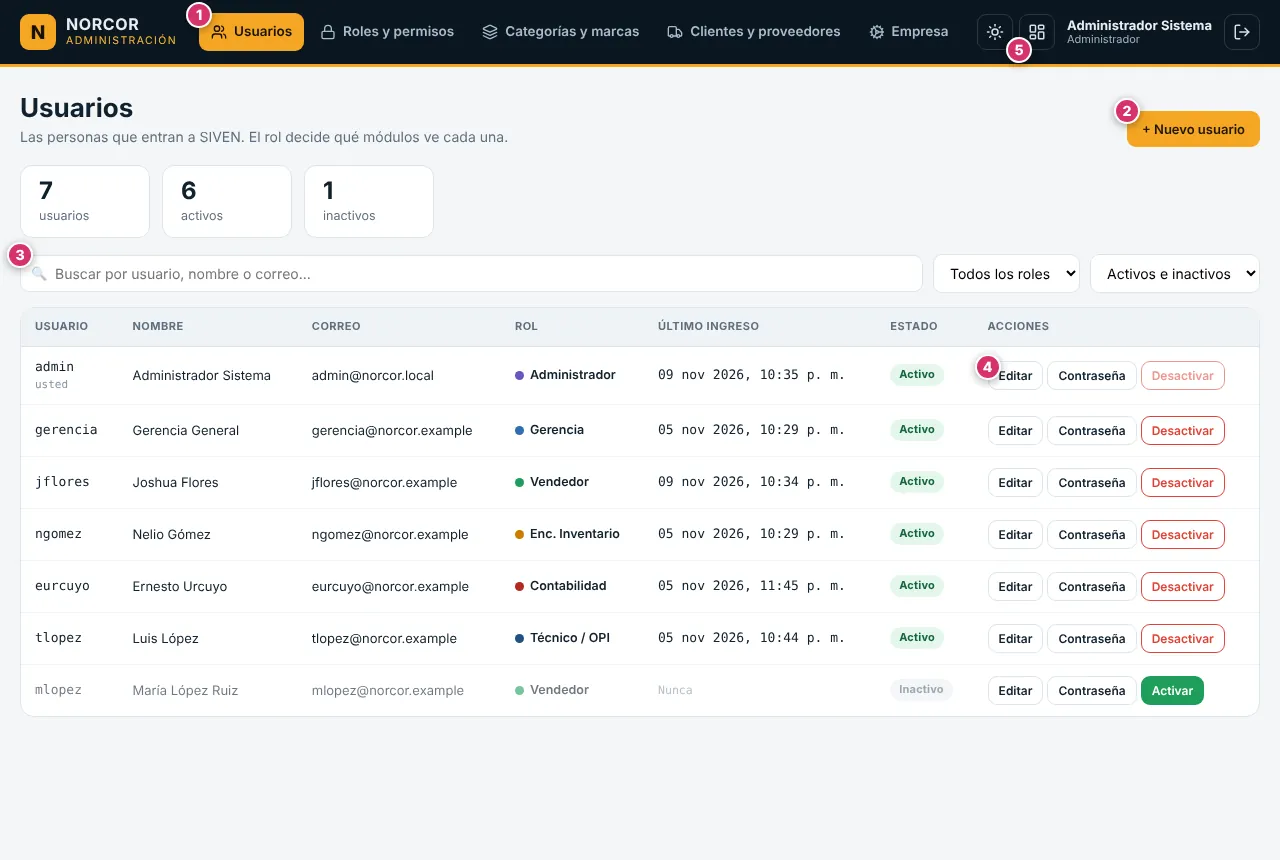
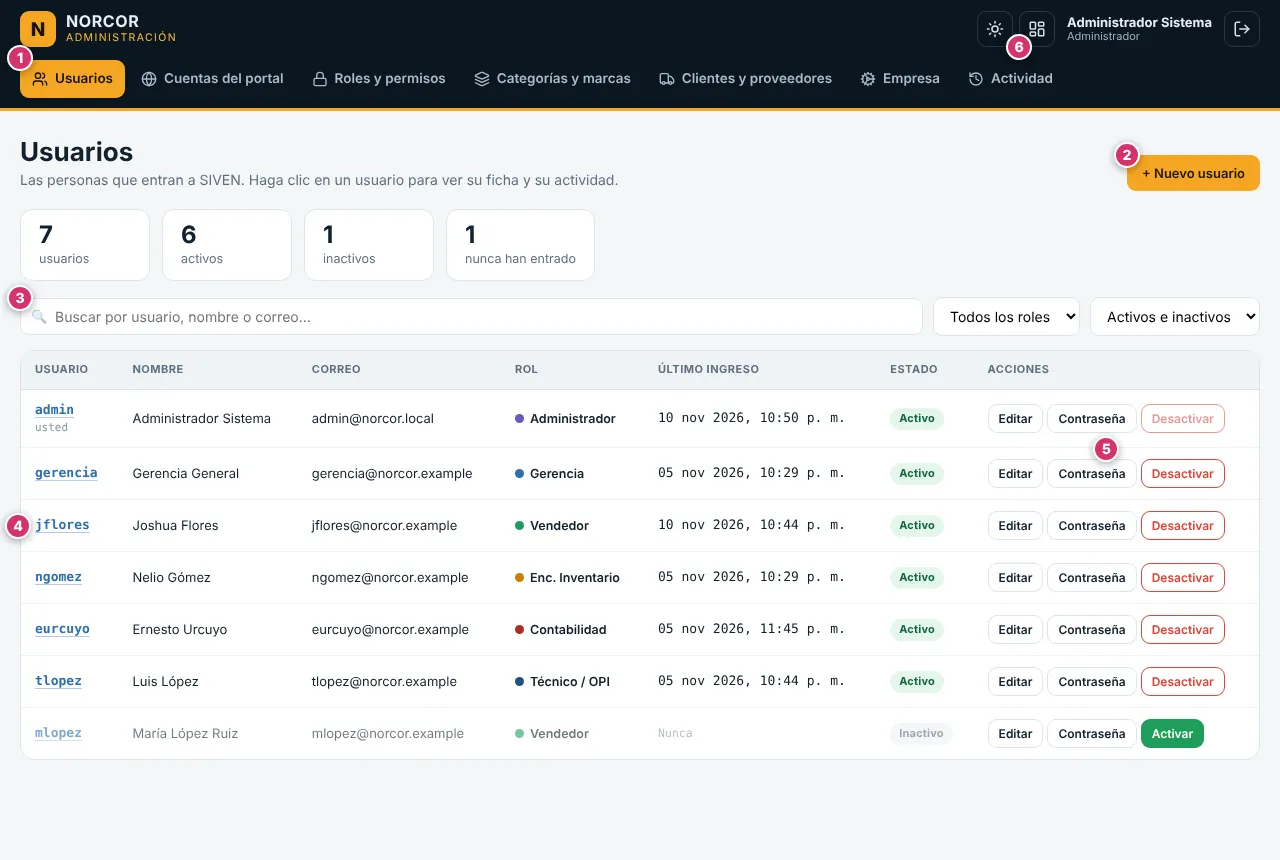
Manual: panel de administración completo (mejoras n.° 69 a 72)
- Capítulo «Panel de administración»: ficha del usuario, editar usuario y
  correo, cerrar sesiones, Cuentas del portal (recuperar acceso, cambiar
  correo, vincular), RUC de la empresa y Actividad. Capturas nuevas y
  actualizadas.
- Portal, Preguntas frecuentes, Acceso, Pantalla, Roles, Ventas y Glosario
  al día; el portal ya no menciona el enlace al sistema interno (parche 0037).

diff --git a/frontend/src/features/docs/imagenes.ts b/frontend/src/features/docs/imagenes.ts
@@ -5,12 +5,17 @@ export const IMAGENES: Record<string, [number, number]> = {
   'acceso-login': [1280, 800],
   'acceso-recuperar-1': [640, 800],
   'acceso-recuperar-2': [640, 800],
+  'admin-actividad': [1280, 860],
   'admin-catalogos': [1280, 860],
   'admin-celular': [390, 664],
   'admin-empresa': [1280, 860],
+  'admin-ficha': [892, 668],
+  'admin-portal': [1280, 860],
+  'admin-portal-nueva': [652, 653],
   'admin-restablecer': [652, 469],
   'admin-roles': [1280, 860],
   'admin-socios': [1280, 860],
+  'admin-usuario-editar': [652, 597],
   'admin-usuario-nuevo': [652, 687],
   'admin-usuarios': [1280, 860],
   'auditoria': [1280, 800],
@@ -60,7 +65,7 @@ export const IMAGENES: Record<string, [number, number]> = {
   'pantalla-tabla': [1280, 800],
   'pantalla-tema': [635, 199],
   'pantalla-vista-previa': [900, 470],
-  'portal-cotizacion': [1280, 1113],
+  'portal-cotizacion': [1280, 1140],
   'portal-cotizaciones': [1280, 800],
   'portal-ingresar': [1280, 800],
   'portal-perfil': [1280, 1496],
@@ -94,6 +99,6 @@ export const IMAGENES: Record<string, [number, number]> = {
   'sitio-producto': [1280, 800],
   'sitio-vista-rapida': [1280, 800],
   'ventas-anular': [1280, 800],
-  'ventas-factura': [1280, 800],
+  'ventas-factura': [1280, 860],
   'ventas-lista': [1280, 800],
 };

diff --git a/frontend/src/features/docs/manual/22-administracion.md b/frontend/src/features/docs/manual/22-administracion.md
@@ -3,18 +3,20 @@ id: administracion
 titulo: Panel de administración
 grupo: Control
 modulo:
-resumen: El área aparte, solo para el administrador, donde se crean usuarios y se les asigna rol, se restablecen contraseñas, se mantienen las categorías y marcas, se activan o desactivan clientes y proveedores, y se configuran los datos de la empresa.
+resumen: El área aparte, solo para el administrador, donde se maneja todo lo de cada usuario (usuario, correo, rol, contraseña, sesiones y estado), las cuentas del portal de clientes, las categorías y marcas, la activación de clientes y proveedores, los datos de la empresa y la actividad de accesos y cambios.
 ---
 
 ## Para qué sirve
 
 El **Panel de administración** es un área **aparte de SIVEN**, igual que el sitio público y el portal de clientes: tiene su propia barra y su propio menú, y no cambia nada de lo que ven los demás usuarios. Ahí se hace el trabajo de configuración que antes había que pedir al servidor:
 
-- crear **usuarios**, asignarles su **rol**, restablecer su **contraseña** y activarlos o desactivarlos;
+- crear **usuarios** y tener el control completo de cada uno: su **usuario**, su **correo**, sus nombres, su **rol**, su **contraseña**, sus **sesiones abiertas** y si está **activo**;
+- atender las **cuentas del portal** de los clientes: recuperar su acceso, cambiar su correo o crear la cuenta de un cliente que ya existe;
 - consultar qué puede hacer cada **rol**;
 - crear y mantener las **categorías** y **marcas** de los productos;
 - **activar o desactivar** clientes y proveedores;
-- llenar los **datos de la empresa** que ve el cliente en el sitio y los parámetros de facturación.
+- llenar los **datos de la empresa** que ve el cliente en el sitio y en los documentos, y los parámetros de facturación;
+- revisar la **actividad**: quién entró, quién intentó entrar y qué se cambió.
 
 > **Importante:** Solo el **administrador** puede entrar. Si otra persona abre la dirección del panel, ve un aviso de que no tiene acceso y un botón para volver a SIVEN. Todo lo que se hace en el panel queda en la [Auditoría](?cap=auditoria).
 
@@ -28,13 +30,14 @@ El **Panel de administración** es un área **aparte de SIVEN**, igual que el si
 
 ![Panel de administración: lista de usuarios.](/manual/admin-usuarios.webp)
 
-1. **Secciones del panel**: Usuarios, Roles y permisos, Categorías y marcas, Clientes y proveedores, y Empresa.
+1. **Secciones del panel**: Usuarios, Cuentas del portal, Roles y permisos, Categorías y marcas, Clientes y proveedores, Empresa y Actividad.
 2. **+ Nuevo usuario**: crea un usuario.
 3. **Buscar y filtrar**: por usuario, nombre o correo, por **rol** y por **estado** (activos o inactivos).
-4. **Acciones de cada usuario**: **Editar**, **Contraseña** (restablecerla) y **Desactivar** o **Activar**.
-5. **Ir a SIVEN**: vuelve al sistema.
+4. **Usuario**: haga clic en él para abrir su **ficha**, con todos sus datos y su actividad.
+5. **Acciones de cada usuario**: **Editar**, **Contraseña** (restablecerla) y **Desactivar** o **Activar**.
+6. **Ir a SIVEN**: vuelve al sistema.
 
-Arriba se ve cuántos usuarios hay, cuántos están activos y cuántos inactivos. La tabla muestra el usuario, el nombre, el correo, el rol (con su color), la fecha del **último ingreso** y el estado. Su propia cuenta dice *usted*.
+Arriba se ve cuántos usuarios hay, cuántos están activos, cuántos inactivos y cuántos **nunca han entrado** (por ejemplo, alguien a quien no se le entregó su contraseña). La tabla muestra el usuario, el nombre, el correo, el rol (con su color), la fecha del **último ingreso** y el estado. Su propia cuenta dice *usted*.
 
 ### Crear un usuario
 
@@ -42,7 +45,7 @@ Arriba se ve cuántos usuarios hay, cuántos están activos y cuántos inactivos
 
 1. Haga clic en **+ Nuevo usuario**.
 2. Escriba los **Nombres** y **Apellidos**.
-3. Escriba el **Usuario** con el que va a iniciar sesión, por ejemplo `mlopez`: minúsculas, números, punto o guion. **No se puede cambiar después.**
+3. Escriba el **Usuario** con el que va a iniciar sesión, por ejemplo `mlopez`: minúsculas, números, punto o guion.
 4. Escriba el **Correo**. Es importante que sea correcto: ahí le llega el código si olvida su contraseña.
 5. Elija el **Rol**, que decide qué módulos verá (vea [Roles y permisos](?cap=roles)).
 6. Revise la **Contraseña temporal**: el sistema ya generó una segura. Puede pedir **Otra**, escribir una propia o **Copiar** la que está. Las marcas verdes indican que cumple los requisitos.
@@ -50,11 +53,35 @@ Arriba se ve cuántos usuarios hay, cuántos están activos y cuántos inactivos
 
 Entréguele a la persona su usuario y la contraseña temporal **en privado**. Después ella puede poner una propia con **¿Olvidó su contraseña?** en el inicio de sesión.
 
-> **Nota:** No se puede repetir un usuario ni un correo: si ya existen, el sistema lo avisa.
+> **Nota:** No se puede repetir un usuario ni un correo: si ya los tiene otra persona, el sistema lo dice debajo del campo.
 
-### Editar un usuario
+### La ficha del usuario
 
-Con **Editar** se corrigen los nombres, el correo y el **rol**. El usuario no se cambia. Usted **no puede cambiar su propio rol**, para que el sistema nunca se quede sin administrador por error. El nuevo rol se ve en el menú de la persona la próxima vez que inicie sesión.
+![Ficha de un usuario: sus datos, sus acciones y lo que ha hecho en el sistema.](/manual/admin-ficha.webp)
+
+Haga clic en el **usuario** (la palabra subrayada de la primera columna) para abrir su ficha. Arriba están su usuario, su correo, su rol, su estado, cuándo se creó y su último ingreso. Debajo hay dos pestañas:
+
+- **Lo que ha hecho**: sus últimas acciones en el sistema (inicios de sesión, ventas, cambios…).
+- **Cambios a su cuenta**: quién y cuándo le cambió el usuario, el correo, el rol o la contraseña, le cerró las sesiones o lo activó o desactivó.
+
+Se muestran los 15 registros más recientes; el historial completo está en [Actividad](?cap=administracion#actividad) y en la [Auditoría](?cap=auditoria). Desde la ficha también puede **Editar**, cambiar la **Contraseña**, **Cerrar sesiones** y **Desactivar** o **Activar** al usuario.
+
+### Editar un usuario: usuario, correo, nombres y rol
+
+![Editar un usuario: se cambian el usuario y el correo.](/manual/admin-usuario-editar.webp)
+
+Con **Editar** se cambia **todo** lo de la cuenta:
+
+- el **Usuario** con el que inicia sesión (por ejemplo, si se escribió mal o la persona prefiere otro);
+- el **Correo** al que le llega el código para recuperar la contraseña;
+- los **Nombres** y **Apellidos**;
+- el **Rol**.
+
+Cuando cambia el usuario o el correo, el formulario le recuerda lo que va a pasar: desde que guarde, la persona entra con el **usuario nuevo** (o con su correo), y el código de recuperación llega al **correo nuevo**. Su historial (ventas, movimientos, auditoría) se conserva con el usuario nuevo. Avísele el cambio, porque su usuario anterior ya no funciona.
+
+El nuevo rol se ve en el menú de la persona la próxima vez que inicie sesión.
+
+> **Importante:** También puede cambiar **su propio** usuario, correo y nombres: su sesión sigue abierta y la página se recarga con sus datos nuevos. Lo que no puede cambiar es **su propio rol**, para que el sistema nunca se quede sin administrador por error.
 
 ### Restablecer una contraseña
 
@@ -62,11 +89,17 @@ Con **Editar** se corrigen los nombres, el correo y el **rol**. El usuario no se
 
 Úselo cuando alguien olvidó su contraseña y no puede recuperarla por correo:
 
-1. Haga clic en **Contraseña** en la fila del usuario.
+1. Haga clic en **Contraseña** en la fila del usuario (o en su ficha).
 2. Revise o cambie la contraseña temporal y cópiela.
 3. Haga clic en **Restablecer contraseña**.
 
 Se cierran las sesiones que la persona tuviera abiertas. Entréguele la contraseña temporal en privado.
+
+### Cerrar las sesiones de un usuario
+
+En la ficha del usuario, **Cerrar sesiones** cierra todas las sesiones que tenga abiertas, en cualquier computadora o celular. Su contraseña **no cambia**: puede volver a entrar cuando quiera.
+
+Úselo si la persona perdió su celular o dejó la sesión abierta en un equipo compartido. No se puede usar con su propia cuenta: para salir, use **Cerrar sesión** :ic-log-out:.
 
 ### Desactivar o activar un usuario
 
@@ -76,6 +109,55 @@ Cuando una persona deja la empresa, **desactive** su usuario en lugar de borrarl
 - su historial (ventas, movimientos, auditoría) se conserva con su nombre.
 
 Para que vuelva a entrar, haga clic en **Activar**. Usted no puede desactivar su propia cuenta.
+
+## Cuentas del portal
+
+![Cuentas del portal de clientes.](/manual/admin-portal.webp)
+
+Aquí están las cuentas con las que los clientes entran al [portal](?cap=portal). El portal le dice al cliente que, si olvidó su contraseña, escriba a NORCOR; y si su RUC ya estaba registrado, que se comunique para **vincular** su cuenta. Las dos cosas se resuelven en esta sección.
+
+1. **+ Nueva cuenta**: crea la cuenta del portal para un cliente que **ya existe** en SIVEN.
+2. **Buscar y filtrar**: por correo, contacto, cliente o RUC; por estado (activas o inactivas) o las que **nunca han entrado**.
+3. **Correo de acceso**: haga clic en él para abrir la ficha de la cuenta, con su historial (inicios de sesión, cambios de correo o de contraseña).
+4. **Acciones**: **Editar**, **Contraseña** y **Desactivar** o **Activar**.
+
+La tabla muestra el cliente con su RUC, el correo con el que entra, la persona de contacto, cuántas **solicitudes** ha enviado, su último ingreso y su estado.
+
+### Recuperar el acceso de un cliente
+
+Cuando un cliente escribe porque olvidó su contraseña:
+
+1. Confirme que quien escribe es el contacto del cliente (por ejemplo, llamando al teléfono de su ficha).
+2. Busque la cuenta y haga clic en **Contraseña**.
+3. Copie la contraseña temporal y haga clic en **Restablecer contraseña**.
+4. Entréguesela al cliente por un medio privado (WhatsApp o llamada). Después él puede cambiarla en **Mi perfil** del portal.
+
+Se cierran las sesiones que el cliente tuviera abiertas.
+
+### Cambiar el correo de acceso
+
+Con **Editar** se cambian el **Correo de acceso**, la **Persona de contacto** y el **Teléfono**. Desde que guarde, el cliente entra al portal con el correo nuevo. Si la ficha del cliente tenía el mismo correo, también se actualiza.
+
+### Crear la cuenta de un cliente que ya existe (vincular)
+
+![Nueva cuenta del portal para un cliente que ya existe.](/manual/admin-portal-nueva.webp)
+
+Si un cliente no pudo registrarse porque su RUC ya estaba en NORCOR, cree aquí su cuenta:
+
+1. Haga clic en **+ Nueva cuenta**.
+2. Busque el **Cliente** por nombre, RUC o contacto y elíjalo de la lista. Solo aparecen los clientes activos.
+3. Revise el **Correo de acceso**, la **Persona de contacto** y el **Teléfono** (se proponen los de la ficha del cliente).
+4. Revise la **Contraseña temporal** y cópiela.
+5. Haga clic en **Crear cuenta** y entréguele al cliente su correo y su contraseña en privado.
+
+La cuenta queda unida a ese cliente: en el portal verá sus solicitudes y sus cotizaciones.
+
+> **Nota:** No se puede repetir un correo entre cuentas del portal.
+
+### Desactivar una cuenta o cerrar sus sesiones
+
+- **Desactivar**: el cliente ya no puede entrar al portal y su sesión abierta se cierra en su próxima acción. Sus solicitudes y cotizaciones se conservan, y NORCOR lo sigue atendiendo en SIVEN. **Activar** lo deja entrar otra vez.
+- **Cerrar sesiones** (en la ficha de la cuenta): cierra las sesiones abiertas sin cambiar la contraseña.
 
 ## Roles y permisos
 
@@ -117,7 +199,9 @@ Nada se borra: así el historial siempre muestra con quién se hizo cada documen
 
 ![Datos de la empresa y parámetros de facturación.](/manual/admin-empresa.webp)
 
-**Contacto**: el nombre de la empresa, el **teléfono**, el **WhatsApp** (con código de país, por ejemplo `50588880000`), el **correo**, la **dirección** y el **horario de atención**. Se muestran en la página de Contacto, en el pie del sitio y en los botones de WhatsApp del sitio.
+**Contacto**: el nombre de la empresa, su **RUC**, el **teléfono**, el **WhatsApp** (con código de país, por ejemplo `50588880000`), el **correo**, la **dirección** y el **horario de atención**. Se muestran en la página de Contacto, en el pie del sitio y en los botones de WhatsApp del sitio.
+
+El **RUC**, la dirección, el teléfono y el correo salen además debajo del logo en la **factura impresa** (vea [Ventas y facturación](?cap=ventas)), y el nombre con el RUC en la **cotización** que el cliente ve e imprime en el portal.
 
 **Facturación**:
 
@@ -128,8 +212,25 @@ Los cambios se aplican a las ventas y cotizaciones **nuevas**; las ya emitidas n
 
 > **Importante:** Confirme con contabilidad antes de cambiar el régimen de impuestos: cambia cómo se calculan las ventas desde ese momento.
 
+## Actividad
+
+![Actividad: accesos de los últimos días.](/manual/admin-actividad.webp)
+
+Es de **solo lectura** y responde dos preguntas: *¿quién entró o intentó entrar?* y *¿qué se cambió en la administración?*
+
+1. **Accesos** o **Cambios de administración**: elija qué quiere ver.
+2. **Resumen de los últimos 7 días** (en Accesos): inicios de sesión, **intentos fallidos**, intentos de usuarios **inactivos** y contraseñas recuperadas por correo.
+3. **Filtros**: por usuario, por tipo de evento o acción y por fechas (**Desde** y **Hasta**). Al abrir, se ven los últimos 30 días.
+4. **Evento**: cada fila dice cuándo, quién, qué pasó, dónde (en SIVEN o en el portal), el detalle y desde qué dirección IP.
+
+**Accesos** reúne los inicios y cierres de sesión, los intentos fallidos y las recuperaciones de contraseña del personal (SIVEN) y de los clientes (Portal). **Cambios de administración** reúne lo que se hizo en este panel: usuarios, cuentas del portal, datos de la empresa, categorías, marcas y la activación de clientes y proveedores; el detalle dice qué cambió, por ejemplo *usuario jflores → joshua.flores*.
+
+> **Consejo:** Varios **intentos fallidos** seguidos con el mismo usuario pueden ser alguien que olvidó su contraseña… o alguien probando contraseñas. Hable con la persona y, si hace falta, restablézcale la contraseña o cierre sus sesiones.
+
+Para buscar en todo lo demás del sistema (ventas, compras, inventario…), use la [Auditoría](?cap=auditoria) de SIVEN.
+
 ## En el celular
 
 ![El panel de administración en el celular.](/manual/admin-celular.webp)
 
-El panel también funciona en el celular: las secciones se muestran como íconos debajo de la barra y la sección abierta lleva su nombre. Las tablas se deslizan hacia los lados.
+El panel también funciona en el celular: las secciones se muestran como íconos debajo de la barra y la sección abierta lleva su nombre. Las tablas se deslizan hacia los lados y las fichas acomodan sus botones en dos columnas.

diff --git a/frontend/src/features/docs/manual/24-portal.md b/frontend/src/features/docs/manual/24-portal.md
@@ -31,16 +31,16 @@ Este capítulo explica el portal para que el personal pueda guiar a los clientes
 
 La cuenta queda lista de inmediato y la empresa aparece en [Clientes](?cap=clientes) del sistema interno, con su cuenta del portal. Si el cliente venía de armar su lista, el sitio lo regresa a la lista para enviarla.
 
-> **Importante:** Si el cliente escribe un **RUC que ya está registrado** en NORCOR (porque ya es cliente), la cuenta no se crea y el sitio le pide comunicarse con NORCOR para vincularla. En ese caso, pase el caso al administrador del sistema.
+> **Importante:** Si el cliente escribe un **RUC que ya está registrado** en NORCOR (porque ya es cliente), la cuenta no se crea y el sitio le pide comunicarse con NORCOR para vincularla. En ese caso, el administrador le crea la cuenta unida a ese cliente en **Panel de administración › Cuentas del portal** (vea [Crear la cuenta de un cliente que ya existe](?cap=administracion#crear-la-cuenta-de-un-cliente-que-ya-existe-vincular)).
 
 ## Iniciar sesión
 
 ![Inicio de sesión del portal.](/manual/portal-ingresar.webp)
 
-El cliente escribe su **Correo electrónico** y su **Contraseña** y hace clic en **Iniciar sesión**. Desde ahí también puede ir a **Crear una cuenta de cliente**, y el enlace **Ingrese al sistema interno** lleva al personal a su propio inicio de sesión.
+El cliente escribe su **Correo electrónico** y su **Contraseña** y hace clic en **Iniciar sesión**. Desde ahí también puede ir a **Crear una cuenta de cliente**. El inicio de sesión del portal es solo para clientes: el personal de NORCOR entra por el suyo (el sitio y el sistema interno tienen direcciones distintas).
 
 - Por seguridad, la sesión del portal dura unas **2 horas**; después hay que volver a entrar.
-- **¿Olvidó su contraseña?** El cliente debe escribir a NORCOR desde **Contacto** (motivo *Mi cuenta*) o por WhatsApp, con el correo de su cuenta. La solicitud llega a [Consultas web](?cap=consultas): pásela al administrador del sistema para que le restablezca el acceso.
+- **¿Olvidó su contraseña?** El cliente debe escribir a NORCOR desde **Contacto** (motivo *Mi cuenta*) o por WhatsApp, con el correo de su cuenta. La solicitud llega a [Consultas web](?cap=consultas): pásela al administrador del sistema, que le pone una contraseña temporal en **Panel de administración › Cuentas del portal** (vea [Recuperar el acceso de un cliente](?cap=administracion#recuperar-el-acceso-de-un-cliente)).
 
 ## Mi cuenta
 

diff --git a/frontend/src/features/docs/manual/25-preguntas.md b/frontend/src/features/docs/manual/25-preguntas.md
@@ -141,11 +141,11 @@ El técnico solo ve **las órdenes asignadas a él**. Pida al administrador que 
 
 ### Un cliente olvidó la contraseña del portal
 
-El cliente debe escribir desde **Contacto** (motivo *Mi cuenta*) o por WhatsApp. Pase la solicitud al administrador del sistema para que le restablezca el acceso.
+El cliente debe escribir desde **Contacto** (motivo *Mi cuenta*) o por WhatsApp. Pase la solicitud al administrador del sistema: le pone una contraseña temporal en **Panel de administración › Cuentas del portal** (vea [Recuperar el acceso de un cliente](?cap=administracion#recuperar-el-acceso-de-un-cliente)).
 
 ### Un cliente no puede crear su cuenta porque su RUC ya existe
 
-Su empresa ya está registrada como cliente. Pase el caso al administrador del sistema para vincular la cuenta.
+Su empresa ya está registrada como cliente. El administrador le crea la cuenta del portal unida a ese cliente (vea [Crear la cuenta de un cliente que ya existe](?cap=administracion#crear-la-cuenta-de-un-cliente-que-ya-existe-vincular)) y le entrega su contraseña temporal.
 
 ### El sitio dice «Ya recibimos varias solicitudes desde su conexión»
 
@@ -156,6 +156,14 @@ Es una protección contra abusos que limita los mensajes por hora. El cliente pu
 ### ¿Cómo creo un usuario para una persona nueva?
 
 Solo el administrador: **Panel de administración › Usuarios › + Nuevo usuario**. Vea [Crear un usuario](?cap=administracion#crear-un-usuario).
+
+### Una persona quiere otro usuario o cambió de correo
+
+El administrador los cambia con **Editar** en **Panel de administración › Usuarios**. Desde que guarda, la persona entra con el usuario nuevo y el código de recuperación llega al correo nuevo; su historial se conserva. Vea [Editar un usuario](?cap=administracion#editar-un-usuario-usuario-correo-nombres-y-rol).
+
+### Alguien perdió el celular con la sesión abierta
+
+El administrador abre la ficha de esa persona en **Panel de administración › Usuarios** y hace clic en **Cerrar sesiones**. Su contraseña no cambia. Vea [Cerrar las sesiones de un usuario](?cap=administracion#cerrar-las-sesiones-de-un-usuario).
 
 ### Una persona dejó la empresa
 

diff --git a/frontend/src/features/docs/manual/26-glosario.md b/frontend/src/features/docs/manual/26-glosario.md
@@ -43,6 +43,7 @@ resumen: Qué significa cada palabra, sigla y código que se usa en el sistema, 
 | **Cotización** | Propuesta de precios para un cliente; vale 15 días y se convierte en venta. |
 | **Crédito** | Venta que el cliente paga después, en un plazo de 1 a 365 días. |
 | **CSV** | Tipo de archivo de datos que se abre con Excel. |
+| **Cuenta del portal** | El correo y la contraseña con que un cliente entra al portal. Está unida a la ficha del cliente; el administrador la atiende en **Panel de administración › Cuentas del portal**. |
 | **Cuota fija (régimen)** | Régimen de impuestos en el que la empresa no cobra IVA en sus ventas; el sistema lo indica bajo el subtotal. |
 | **CxC** | Cuentas por cobrar: lo que los clientes deben por facturas de crédito. |
 | **Dashboard** | Pantalla de inicio con los indicadores y los pendientes del día. |
@@ -58,7 +59,7 @@ resumen: Qué significa cada palabra, sigla y código que se usa en el sistema, 
 | **Mínimo / máximo** | Existencia mínima (en ella o por debajo, el producto está *crítico*) y máxima (hasta donde sugiere comprar el reabastecimiento). |
 | **Movimiento** | Cada entrada, salida o ajuste de inventario, con su documento de origen. |
 | **OPI** | Orden de servicio técnico (instalación, mantenimiento, reparación). |
-| **Panel de administración** | Área aparte de SIVEN, solo para el administrador, donde se manejan usuarios, roles, categorías, marcas, clientes y proveedores inactivos, y los datos de la empresa. |
+| **Panel de administración** | Área aparte de SIVEN, solo para el administrador, donde se manejan los usuarios (usuario, correo, rol, contraseña, sesiones y estado), las cuentas del portal, los roles, las categorías y marcas, los clientes y proveedores inactivos, los datos de la empresa y la actividad. |
 | **Pipeline** | Vista de cotizaciones en columnas por estado, con tarjetas que se pueden arrastrar. |
 | **Portal de clientes** | Área privada del sitio web para los clientes con cuenta. |
 | **Precio de referencia** | Precio publicado en el sitio; la cotización confirma el precio final. |

diff --git a/frontend/src/features/docs/manual/04-roles.md b/frontend/src/features/docs/manual/04-roles.md
@@ -21,7 +21,7 @@ Su rol aparece en la barra superior, debajo de su nombre. En este manual, al ini
 
 | Rol | Su trabajo en el sistema |
 |---|---|
-| **Administrador** | Ve y hace todo. Es el único que puede **anular ventas** y entrar al [Panel de administración](?cap=administracion) (usuarios, categorías, marcas y datos de la empresa). Registra, asigna y factura las órdenes de servicio. |
+| **Administrador** | Ve y hace todo. Es el único que puede **anular ventas** y entrar al [Panel de administración](?cap=administracion) (usuarios, cuentas del portal, categorías, marcas, datos de la empresa y actividad). Registra, asigna y factura las órdenes de servicio. |
 | **Gerencia** | Consulta los indicadores, reportes, inventario, compras, producción, ventas y la auditoría. **Fija el precio de venta** de los productos. No registra ventas ni compras. |
 | **Vendedor** | Atiende a los clientes: clientes, cotizaciones, punto de venta, consultas web y catálogo web. Ve los productos y precios para cotizar y vender, pero no los modifica. |
 | **Encargado de inventario** | Productos, inventario (ajustes y traslados), pedidos de compra y su recepción, proveedores, producción y control de calidad. Ve los precios, pero no los fija. |

diff --git a/frontend/src/features/docs/manual/03-pantalla.md b/frontend/src/features/docs/manual/03-pantalla.md
@@ -19,7 +19,7 @@ Todas las pantallas del sistema interno tienen la misma forma: el **menú** a la
 5. **Pendientes**: la campana con el número de tareas que esperan atención.
 6. **Tema**: claro, oscuro o como el sistema de su computadora.
 7. **Ayuda** :ic-circle-help:: abre en este manual el capítulo de la pantalla en que está.
-8. **Panel de administración** :ic-user-cog:: solo lo ve el administrador. Abre el [panel aparte](?cap=administracion) donde se manejan los usuarios, las categorías y marcas, y los datos de la empresa.
+8. **Panel de administración** :ic-user-cog:: solo lo ve el administrador. Abre el [panel aparte](?cap=administracion) donde se manejan los usuarios, las cuentas del portal, las categorías y marcas, los datos de la empresa y la actividad.
 9. **Sitio público** :ic-globe:: abre en otra pestaña el sitio web que ven los clientes.
 10. **Usuario**: su nombre y su rol.
 11. **Cerrar sesión** :ic-log-out:.

diff --git a/frontend/src/features/docs/manual/15-ventas.md b/frontend/src/features/docs/manual/15-ventas.md
@@ -57,7 +57,7 @@ La factura muestra:
 
 Botones:
 
-- **Imprimir**: imprime la factura sola, sin el menú ni la pantalla de fondo. En la ventana de impresión también puede elegir **Guardar como PDF** para enviarla por correo.
+- **Imprimir**: imprime la factura sola, sin el menú ni la pantalla de fondo. Debajo del logo salen el RUC, la dirección, el teléfono y el correo de NORCOR que se llenan en [Panel de administración › Empresa](?cap=administracion#empresa). En la ventana de impresión también puede elegir **Guardar como PDF** para enviarla por correo.
 - **Registrar pago**: aparece si la factura tiene saldo y usted puede registrar pagos; abre [Pagos y CxC](?cap=pagos).
 - **Anular venta**: solo para el administrador (vea abajo).
 

diff --git a/frontend/src/features/docs/manual/02-acceso.md b/frontend/src/features/docs/manual/02-acceso.md
@@ -85,7 +85,8 @@ Los usuarios los maneja el **administrador del sistema** desde el [Panel de admi
 - cree un usuario para una persona nueva (le entregará una contraseña temporal);
 - cambie el rol de alguien (por ejemplo, de vendedor a gerencia);
 - desactive el usuario de una persona que ya no trabaja en la empresa;
-- corrija el correo registrado, si no le llegan los códigos de recuperación;
+- corrija su usuario o el correo registrado, si no le llegan los códigos de recuperación;
+- cierre sus sesiones abiertas, si perdió el celular o dejó la sesión abierta en otro equipo;
 - le restablezca la contraseña, si no puede recuperarla por correo.
 
 Lo que cada rol puede ver y hacer se explica en [Roles y permisos](?cap=roles).
